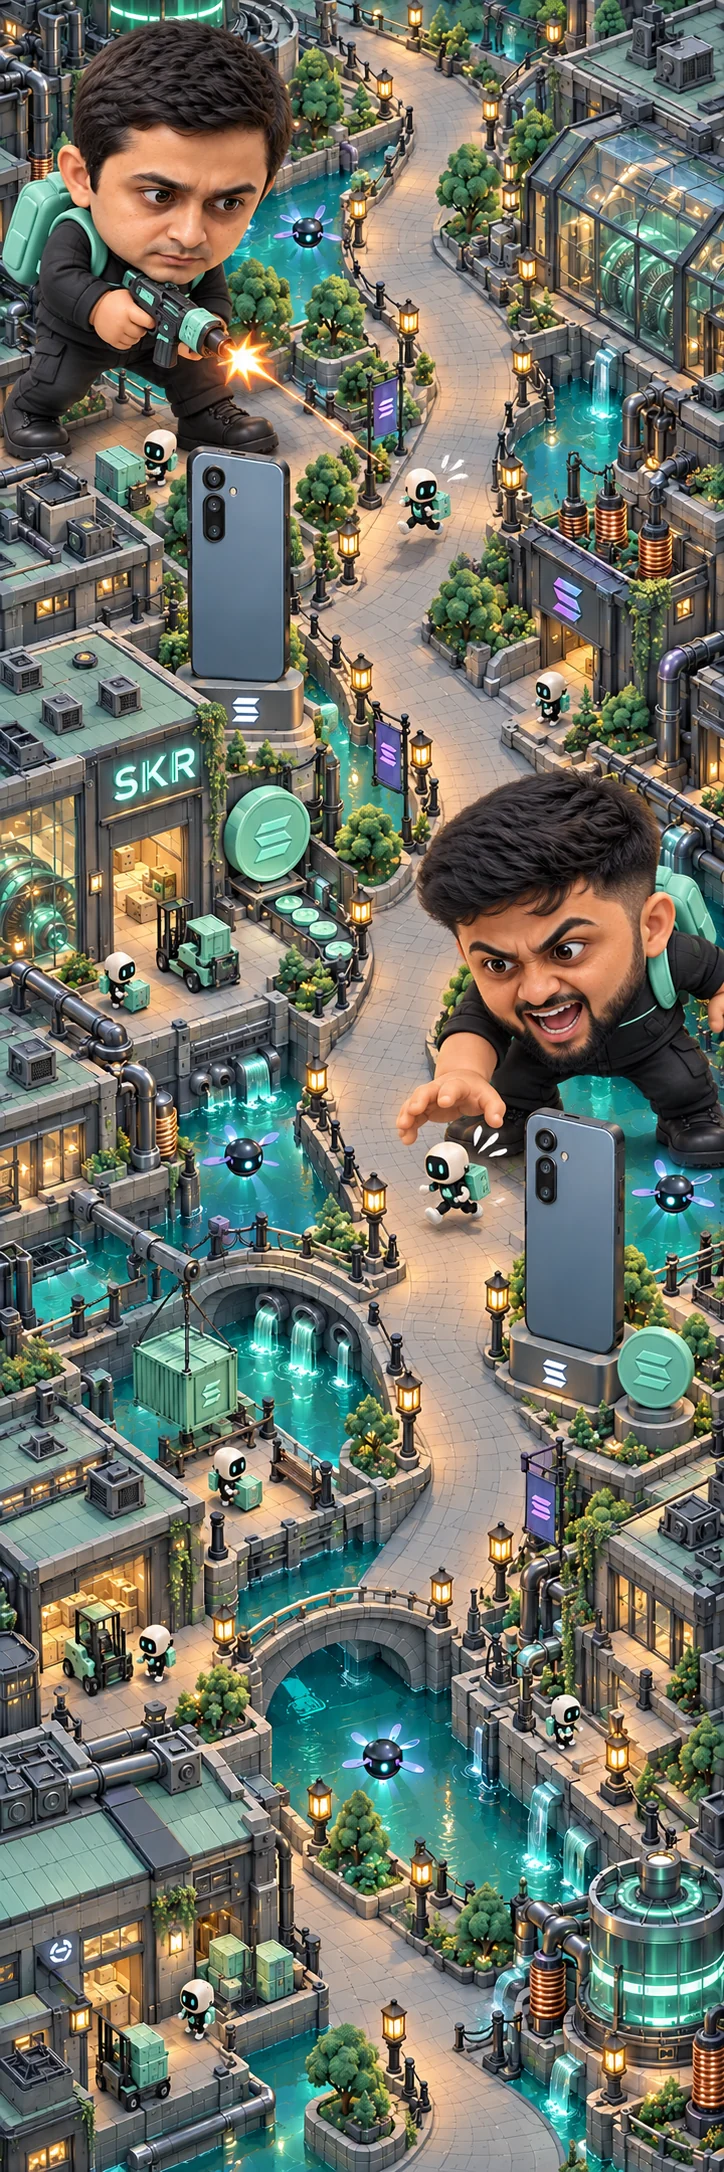
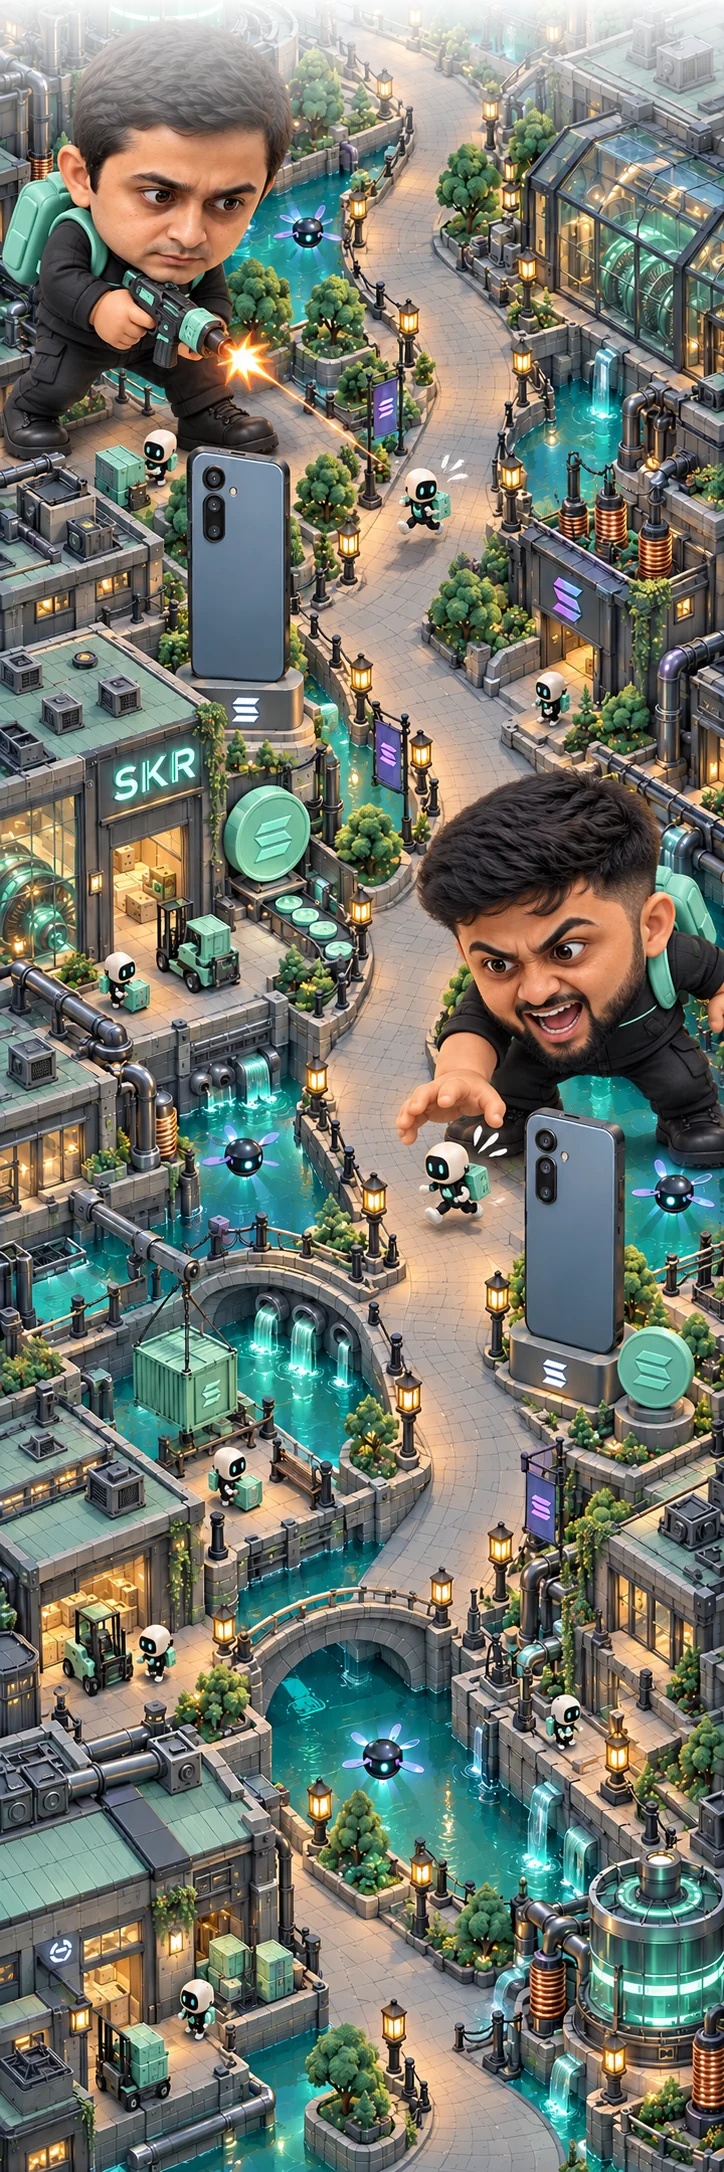
keep skia out of the scrolling map and send a slim hud snapshot
the level map drew each world scene in its own skia canvas with a gradient
mask; several gpu surfaces inside a scroll view stutter on android, so the
scenes are plain images now and the crossfade into the zone above is baked
into the top of each world image at pack time.

the ui thread published the whole game state eight times a second, including
the level definition and every guard's route and planner memory. the snapshot
now leaves those out and the js side reattaches the level it already holds;
frame interval samples live in a fixed ring instead of a growing array, the
relay comparison no longer copies an array per step, and the follow camera
allocates nothing while the courier stands still. version 0.3.37 (code 40).

Changed region(s): [[0.0, 0.0, 1.0, 0.0925]]

diff --git a/src/GameScreen.tsx b/src/GameScreen.tsx
@@ -61,11 +61,13 @@ import type {Replay,ReplayChunk} from '../shared/replay';
 import rulesManifest from '../shared/rules-manifest.json';
 import {alarmSpeedPercent,decoyMessage} from './game/feedback';
 import {initialState,idleInput,step,nearPhone,nearSwitch,exitOpen,stateLevel,type GameState} from './game/simulation';
-import {LEVEL,getLevel,TUNING,MISSIONS,type MissionId} from './game/level';
+import {LEVEL,getLevel,TUNING,MISSIONS,type MissionId,type Point} from './game/level';
 type Stats={fps:number;p95:number;frames:number;slow:number};
 const zeroStats={fps:0,p95:0,frames:0,slow:0};
 const time=(n:number)=>`${Math.floor(n/60).toString().padStart(2,'0')}:${Math.floor(n%60).toString().padStart(2,'0')}`;
 // memoised so hud publishes do not re-render the hidden overlay panels
+// a shared empty route for hud snapshots: the renderer reads routes from the ui-thread state, not from the hud
+const NO_PATH:Point[]=[];
 const RewardsPanelMemo=React.memo(RewardsPanel),WalletPanelMemo=React.memo(WalletPanel),HideoutMemo=React.memo(Hideout),SettingsPanelMemo=React.memo(SettingsPanel);
 export default function GameScreen(){return <GestureHandlerRootView style={{flex:1}}><SafeAreaProvider><LaunchSplash><WalletProvider><AccountProvider><SettingsProvider><EconomyProvider><CampaignGate><WalletGame/></CampaignGate></EconomyProvider></SettingsProvider></AccountProvider></WalletProvider></LaunchSplash></SafeAreaProvider></GestureHandlerRootView>;}
 function WalletGame(){
@@ -95,7 +97,7 @@ export function Game({onSnapshot}:{onSnapshot?:(state:GameState)=>void}){
  const pendingTap=useSharedValue<PendingTap|null>(null),previousTap=useSharedValue<PendingTap|null>(null),tapElapsed=useSharedValue(TAP_INTERVAL_MS);
  const recording=useSharedValue<ReplayChunk[]>([]),[completedReplay,setCompletedReplay]=useState<Replay>();
  const game=useSharedValue(initial),input=useSharedValue(idleInput()),alpha=useSharedValue(0),clock=useSharedValue(0),accumulator=useSharedValue(0),suspended=useSharedValue(homeFirst);
- const samples=useSharedValue<number[]>([]),reportClock=useSharedValue(0),hudClock=useSharedValue(0),frameTotal=useSharedValue(0),slowTotal=useSharedValue(0);
+ const samples=useSharedValue<number[]>(Array.from({length:120},()=>0)),sampleIndex=useSharedValue(0),sampleCount=useSharedValue(0),reportClock=useSharedValue(0),hudClock=useSharedValue(0),frameTotal=useSharedValue(0),slowTotal=useSharedValue(0);
  const [hud,setHud]=useState<GameState>(()=>JSON.parse(JSON.stringify(initial))),[stats,setStats]=useState<Stats>(zeroStats),[paused,setPaused]=useState(homeFirst),[details,setDetails]=useState(false),[mission,setMission]=useState<MissionId>(startMission),[entry,setEntry]=useState<CampaignEntry>(()=>authoredEntry(startMission));
  const entryRef=useRef(entry);entryRef.current=entry;
  useRunTelemetry(hud,paused,trial.active?'trial':'campaign',stats);
@@ -157,7 +159,9 @@ export function Game({onSnapshot}:{onSnapshot?:(state:GameState)=>void}){
  const alarmAudio=useAudioPlayer(require('../assets/audio-combat-v3/alarm.wav'));
  const pickupAudio=useAudioPlayer(require('../assets/audio-combat-v3/pickup.wav')),dashAudio=useAudioPlayer(require('../assets/audio-v3/dash.wav')),successAudio=useAudioPlayer(require('../assets/audio-combat-v3/escape.wav'));
  const decoyAudio=useAudioPlayer(require('../assets/audio-v3/decoy.wav')),caughtAudio=useAudioPlayer(require('../assets/audio-combat-v3/caught.wav')),spotAudio=useAudioPlayer(require('../assets/audio-v3/spot.wav')),switchAudio=useAudioPlayer(require('../assets/audio-v3/switch.wav'));
- const publish=useCallback((snapshot:GameState,epoch?:number)=>{if(epoch!==undefined&&epoch!==sceneEpoch.current)return;latest.current=snapshot;setHud(snapshot);onSnapshot?.(snapshot);},[onSnapshot]);
+ // the ui thread sends a slim snapshot (no level definition, no guard routes or brains); the level is reattached here
+ const levelRef=useRef(level);levelRef.current=level;
+ const publish=useCallback((snapshot:GameState,epoch?:number)=>{if(epoch!==undefined&&epoch!==sceneEpoch.current)return;snapshot.definition=levelRef.current;latest.current=snapshot;setHud(snapshot);onSnapshot?.(snapshot);},[onSnapshot]);
  const publishStats=useCallback((value:Stats)=>{latestStats.current=value;setStats(value);},[]);
  useEffect(()=>{for(const player of [pickupAudio,dashAudio,successAudio,decoyAudio,caughtAudio,spotAudio,switchAudio]){player.volume=settings.sound?settings.volume:0;if(!settings.sound)player.pause();}},[settings.sound,settings.volume,pickupAudio,dashAudio,successAudio,decoyAudio,caughtAudio,spotAudio,switchAudio]);
  useEffect(()=>{alarmAudio.loop=true;alarmAudio.volume=settings.sound?settings.volume*.12:0;if(settings.sound&&(hud.securityAlarm||laserAlarm)&&hud.status==='playing'&&!paused)alarmAudio.play();else alarmAudio.pause();return()=>alarmAudio.pause();},[alarmAudio,settings.sound,settings.volume,hud.securityAlarm,laserAlarm,hud.status,paused]);
@@ -191,34 +195,35 @@ export function Game({onSnapshot}:{onSnapshot?:(state:GameState)=>void}){
    if(guideWaiting.value){accumulator.value=0;return;}
    const dt=Math.min(raw/1000,.1);clock.value+=dt;
    frameTotal.value++;if(raw>25)slowTotal.value++;
-   samples.modify(v=>{v.push(raw);if(v.length>120)v.shift();return v;});reportClock.value+=raw;
+   // fixed ring of the last 120 intervals: no array growth or shift on the ui thread
+   samples.modify(v=>{v[sampleIndex.value]=raw;return v;});sampleIndex.value=(sampleIndex.value+1)%120;sampleCount.value=Math.min(120,sampleCount.value+1);reportClock.value+=raw;
    if(reportClock.value>=1000){
-     const sorted=[...samples.value].sort((a,b)=>a-b);const mean=samples.value.reduce((a,b)=>a+b,0)/Math.max(1,samples.value.length);
+     const filled=samples.value.slice(0,sampleCount.value),sorted=[...filled].sort((a,b)=>a-b);const mean=filled.reduce((a,b)=>a+b,0)/Math.max(1,filled.length);
      runOnJS(callStats)({fps:1000/mean,p95:sorted[Math.max(0,Math.ceil(sorted.length*.95)-1)]??0,frames:frameTotal.value,slow:slowTotal.value});reportClock.value=0;
    }
    accumulator.value=Math.min(accumulator.value+dt,TUNING.step*3);
    hudClock.value+=dt;
    // frames without a simulation step change nothing, so they only advance interpolation
    if(accumulator.value+1e-9<TUNING.step){alpha.value=accumulator.value/TUNING.step;return;}
-   const previousDamage=game.value.combat?.damageTaken??0,previousDecoys=game.value.decoysLeft,previousAlert=game.value.alert,previousPower=game.value.power,previousRelays=[...game.value.relayTimers],previousCarry=game.value.carrying,previousDashes=game.value.dashes,previousTool=game.value.toolSeen,previousStatus=game.value.status;
+   const previousDamage=game.value.combat?.damageTaken??0,previousDecoys=game.value.decoysLeft,previousAlert=game.value.alert,previousPower=game.value.power,previousRelay0=game.value.relayTimers[0]??0,previousRelay1=game.value.relayTimers[1]??0,previousCarry=game.value.carrying,previousDashes=game.value.dashes,previousTool=game.value.toolSeen,previousStatus=game.value.status;
    game.modify(s=>{recording.modify(chunks=>{while(accumulator.value+1e-9>=TUNING.step){recordStep(s,input.value,chunks);accumulator.value-=TUNING.step;}return chunks;});return s;},true);
    alpha.value=accumulator.value/TUNING.step;
    if(game.value.decoysLeft<previousDecoys)runOnJS(callEvent)('decoy');
    if(!combatMode&&previousAlert<=0&&game.value.alert>0)runOnJS(callEvent)('spot');
-   if(game.value.power!==previousPower||game.value.relayTimers.some((v,i)=>v>(previousRelays[i]??0)))runOnJS(callEvent)('switch');
+   if(game.value.power!==previousPower||(game.value.relayTimers[0]??0)>previousRelay0||(game.value.relayTimers[1]??0)>previousRelay1)runOnJS(callEvent)('switch');
    if(game.value.carrying&&!previousCarry)runOnJS(callEvent)('pickup');
    if(game.value.dashes>previousDashes)runOnJS(callEvent)('dash');
    if(game.value.status==='won'&&previousStatus!=='won')runOnJS(callEvent)('success');
    if(game.value.status==='caught'&&previousStatus!=='caught')runOnJS(callEvent)('caught');
-   if(hudClock.value>=.12||previousDamage!==(game.value.combat?.damageTaken??0)||previousTool!==game.value.toolSeen||previousCarry!==game.value.carrying||previousStatus!==game.value.status||previousDashes!==game.value.dashes){runOnJS(callPublish)({...game.value},simulationEpoch.value);hudClock.value=0;}
- },[suspended,sceneReady,pendingTap,tapElapsed,game,input,guideStage,guideWaiting,clock,frameTotal,slowTotal,samples,reportClock,accumulator,recording,alpha,hudClock,simulationEpoch,combatMode,callPublish,callStats,callEvent,callBeginGuide]));
+   if(hudClock.value>=.12||previousDamage!==(game.value.combat?.damageTaken??0)||previousTool!==game.value.toolSeen||previousCarry!==game.value.carrying||previousStatus!==game.value.status||previousDashes!==game.value.dashes){runOnJS(callPublish)({...game.value,definition:undefined,guards:game.value.guards.map(g=>({...g,path:NO_PATH,brain:undefined}))},simulationEpoch.value);hudClock.value=0;}
+ },[suspended,sceneReady,pendingTap,tapElapsed,game,input,guideStage,guideWaiting,clock,frameTotal,slowTotal,samples,sampleIndex,sampleCount,reportClock,accumulator,recording,alpha,hudClock,simulationEpoch,combatMode,callPublish,callStats,callEvent,callBeginGuide]));
  useEffect(()=>{frameDriver.setActive(renderGameSurface&&!paused);return()=>frameDriver.setActive(false);},[renderGameSurface,paused,frameDriver]);
  const pause=useCallback((value:boolean)=>{
   suspended.value=value;pendingTap.value=null;previousTap.value=null;
   input.value=idleInput();game.modify(s=>{'worklet';s.vx=0;s.vy=0;s.px=s.x;s.py=s.y;s.dashSeen=0;s.toolSeen=0;return s;});
   setPaused(value);
  },[suspended,input,game,pendingTap,previousTap]);
- const restart=useCallback((next:CampaignEntry=entryRef.current)=>{if(trial.active){trial.finish();return;}sceneReady.value=false;suspended.value=true;pendingTap.value=null;previousTap.value=null;tapElapsed.value=TAP_INTERVAL_MS;simulationEpoch.value=++sceneEpoch.current;setSceneVersion(sceneEpoch.current);setSceneLoading(true);setSceneError('');recording.value=[];setCompletedReplay(undefined);rewardEpoch.current++;setEarnedNotice('');setCreditReward({amount:null});setRewardClaimed(false);setAutoClaim(false);setRewardRetry(0);connectClaimPending.current=false;recorded.current=false;setMission(next.mission);setEntry(next);const fresh=(next.key==='practice'?guide.start('practice'):null)??initialState(next.mission,combatMode?next.definition:undefined);game.value=fresh;input.value=idleInput();accumulator.value=0;alpha.value=0;clock.value=0;samples.value=[];frameTotal.value=0;slowTotal.value=0;reportClock.value=0;hudClock.value=0;setHud(fresh);latest.current=fresh;suspended.value=false;setPaused(false);setStats(zeroStats);},[game,input,accumulator,alpha,clock,samples,frameTotal,slowTotal,reportClock,hudClock,suspended,recording,trial,guide.start,combatMode,sceneReady,pendingTap,previousTap,tapElapsed,simulationEpoch]);
+ const restart=useCallback((next:CampaignEntry=entryRef.current)=>{if(trial.active){trial.finish();return;}sceneReady.value=false;suspended.value=true;pendingTap.value=null;previousTap.value=null;tapElapsed.value=TAP_INTERVAL_MS;simulationEpoch.value=++sceneEpoch.current;setSceneVersion(sceneEpoch.current);setSceneLoading(true);setSceneError('');recording.value=[];setCompletedReplay(undefined);rewardEpoch.current++;setEarnedNotice('');setCreditReward({amount:null});setRewardClaimed(false);setAutoClaim(false);setRewardRetry(0);connectClaimPending.current=false;recorded.current=false;setMission(next.mission);setEntry(next);const fresh=(next.key==='practice'?guide.start('practice'):null)??initialState(next.mission,combatMode?next.definition:undefined);game.value=fresh;input.value=idleInput();accumulator.value=0;alpha.value=0;clock.value=0;sampleIndex.value=0;sampleCount.value=0;frameTotal.value=0;slowTotal.value=0;reportClock.value=0;hudClock.value=0;setHud(fresh);latest.current=fresh;suspended.value=false;setPaused(false);setStats(zeroStats);},[game,input,accumulator,alpha,clock,samples,frameTotal,slowTotal,reportClock,hudClock,suspended,recording,trial,guide.start,combatMode,sceneReady,pendingTap,previousTap,tapElapsed,simulationEpoch]);
  // Explicit exits must open the map even when Hideout remembers a briefing or store tab.
  const backToMissions=()=>{pause(true);economy.setTab('map');setMissionMapRequest(n=>n+1);setHideoutOpen(true);};
  const introduceMission=(next:CampaignEntry)=>{if(!next.playable)return;if(testMission){restart(next);return;}pause(true);setHideoutOpen(false);setIntroMission(next);};
@@ -233,7 +238,7 @@ export function Game({onSnapshot}:{onSnapshot?:(state:GameState)=>void}){
    window.addEventListener('keydown',down);window.addEventListener('keyup',up);window.addEventListener('blur',blur);
    const visibility=()=>{if(document.hidden)blur();};document.addEventListener('visibilitychange',visibility);
    // Read-only diagnostics for reproducible local playtests. No teleport, score or win hooks.
-   (window as unknown as {__SEEKER_MVP__:unknown}).__SEEKER_MVP__={renderer:'2d-skia',rulesHash:rulesManifest.rulesHash,snapshot:()=>({...game.value,guards:game.value.guards.map(g=>({...g}))}),metrics:()=>({...latestStats.current}),get camera(){return {...camera.value};},replay:()=>({version:(combatMode?2:1) as 1|2,chunks:recording.value.map(c=>({...c}))}),get level(){return stateLevel(game.value);}};
+   (window as unknown as {__SEEKER_MVP__:unknown}).__SEEKER_MVP__={renderer:'2d-skia',rulesHash:rulesManifest.rulesHash,snapshot:()=>({...game.value,guards:game.value.guards.map(g=>({...g}))}),metrics:()=>({...latestStats.current}),get hud(){return latest.current;},get camera(){return {...camera.value};},replay:()=>({version:(combatMode?2:1) as 1|2,chunks:recording.value.map(c=>({...c}))}),get level(){return stateLevel(game.value);}};
    return()=>{window.removeEventListener('keydown',down);window.removeEventListener('keyup',up);window.removeEventListener('blur',blur);document.removeEventListener('visibilitychange',visibility);};
  },[input,pause,restart,suspended,recording,introMission,walletOpen,hideoutOpen,mapOpen,settingsOpen,rewardsOpen]);
  const teachingTarget=guideTarget(guide.stage,hud);

diff --git a/src/components/CampaignMap.tsx b/src/components/CampaignMap.tsx
@@ -1,4 +1,6 @@
 // Illustrated journey; virtualized rows share continuous district artwork and a legible route.
+// the art is plain images: a skia canvas per row would put several gpu surfaces inside the scroll view and stutter on
+// android. the crossfade into the zone above is baked into the top of each image at pack time (scripts/pack-world-art.mjs).
 import {useHaptics} from '../feedback/useHaptics';
 import React,{useCallback,useMemo} from 'react';
 import {FlatList,Image,Pressable,StyleSheet,Text,View} from 'react-native';
@@ -7,7 +9,6 @@ import type {Progress} from '../progress/model';
 import {BOSS_NAMES} from '../../shared/campaign-levels';
 import {bossPortrait} from './costumeAssets';
 import {campaignMapLayout,type MapScene} from './campaignMapLayout';
-import {Canvas,Image as SkiaImage,Mask,Rect,LinearGradient,useImage,vec} from '@shopify/react-native-skia';
 
 const NODE=40,BOSS_NODE=52;
 const art={warehouse:require('../../assets/campaign-world-v2/warehouse.webp'),rooftops:require('../../assets/campaign-world-v2/rooftops.webp'),powerworks:require('../../assets/campaign-world-v2/powerworks.webp')};
@@ -15,8 +16,6 @@ export default function CampaignMap({entries,progress,current,onSelect}:{entries
  const haptic=useHaptics();
  const [{width,height},setSize]=React.useState({width:0,height:0});
  const list=React.useRef<FlatList<MapScene>>(null),positioned=React.useRef('');
- const warehouse=useImage(art.warehouse),rooftops=useImage(art.rooftops),powerworks=useImage(art.powerworks);
- const images=useMemo(()=>({warehouse,rooftops,powerworks}),[warehouse,rooftops,powerworks]);
  const {scenes}=useMemo(()=>campaignMapLayout(entries,width),[entries,width]);
  const currentScene=Math.max(0,scenes.findIndex(s=>s.nodes.some(n=>n.entry.key===current.key)));
  const position=useCallback(()=>{
@@ -27,13 +26,10 @@ export default function CampaignMap({entries,progress,current,onSelect}:{entries
  },[width,height,entries.length,scenes,currentScene,current.key]);
  const getItemLayout=useCallback((_:unknown,index:number)=>({length:scenes[index]?.height??0,offset:scenes[index]?.offset??0,index}),[scenes]);
  const render=useCallback(({item}:{item:MapScene})=>{
-  const image=images[item.zone],previous=item.previousZone?images[item.previousZone]:null;
-  const picture=image?<SkiaImage image={image} x={0} y={0} width={width} height={item.imageHeight} fit="contain"/>:null;
-  return <View style={{height:item.height}}>
-   <Canvas pointerEvents="none" accessible={false} style={StyleSheet.absoluteFill}>
-    {previous&&<SkiaImage image={previous} x={0} y={-(item.imageHeight-item.fade)} width={width} height={item.imageHeight} fit="contain"/>}
-    {previous?<Mask mask={<Rect x={0} y={0} width={width} height={item.imageHeight}><LinearGradient start={vec(0,0)} end={vec(0,item.fade)} colors={['transparent','white']}/></Rect>}>{picture}</Mask>:picture}
-   </Canvas>
+  // the row above shows its bottom strip under this image's faded top, which keeps the road continuous
+  return <View style={{height:item.height,overflow:'hidden'}}>
+   {item.previousZone&&<Image accessible={false} source={art[item.previousZone]} resizeMode="contain" style={{position:'absolute',left:0,top:-(item.imageHeight-item.fade),width,height:item.imageHeight}}/>}
+   <Image accessible={false} source={art[item.zone]} resizeMode="contain" style={{position:'absolute',left:0,top:0,width,height:item.imageHeight}}/>
    {item.nodes.map(({entry,index,x,y})=>{
     const open=entryUnlocked(progress,entries,index)&&entry.playable,best=progress.missions[entry.key],isCurrent=entry.key===current.key,boss=entry.boss,size=boss?BOSS_NODE:NODE;
     return <Pressable key={entry.key} testID={`mission-node-${entry.number}`} accessibilityRole="button" accessibilityLabel={`Level ${entry.number}: ${boss?`${BOSS_NAMES[boss]} boss fight`:entry.title}${open?'':'. Locked'}`} accessibilityState={{selected:isCurrent}} onPress={()=>{haptic('select');onSelect(entry);}} style={({pressed})=>[s.target,{left:x-30,top:y-size/2-4,opacity:pressed?.7:1}]}>
@@ -45,8 +41,8 @@ export default function CampaignMap({entries,progress,current,onSelect}:{entries
     </Pressable>;
    })}
   </View>;
- },[images,width,progress,entries,current.key,haptic,onSelect]);
- const extra=useMemo(()=>({progress,width,current:current.key,images}),[progress,width,current.key,images]);
+ },[width,progress,entries,current.key,haptic,onSelect]);
+ const extra=useMemo(()=>({progress,width,current:current.key}),[progress,width,current.key]);
  return <View testID="mission-districts" style={s.list} onLayout={e=>{const {width:w,height:h}=e.nativeEvent.layout;setSize(old=>old.width===w&&old.height===h?old:{width:w,height:h});}}>
   {width>0&&<FlatList key={`${width}:${entries.length}`} ref={list} data={scenes} extraData={extra} renderItem={render} keyExtractor={r=>r.key} getItemLayout={getItemLayout} initialScrollIndex={currentScene} initialNumToRender={2} windowSize={5} maxToRenderPerBatch={3} showsVerticalScrollIndicator={false} onContentSizeChange={position} onScrollToIndexFailed={position}/>}
  </View>;

diff --git a/src/camera/useFollowCamera.ts b/src/camera/useFollowCamera.ts
@@ -12,9 +12,13 @@ export function useFollowCamera(game:SharedValue<GameState>,alpha:SharedValue<nu
   'worklet';
   const s=game.value;
   if(fullMap.value){if(camera.value!==OVERVIEW)camera.value=OVERVIEW;return;}
-  const target=frameCourier(s.px+(s.x-s.px)*alpha.value,s.py+(s.y-s.py)*alpha.value,CAMERA_CONFIG.zoom,viewportHeight);
-  const next=s.ticks<2?target:followCamera(camera.value,target,(frame.timeSincePreviousFrame??16)/1000);
-  if(next!==camera.value)camera.value=next;
+  // a still courier costs nothing: compare the clamped target as scalars before building a camera object
+  const zoom=Math.max(CAMERA_CONFIG.zoom,viewportHeight/20),cx=s.px+(s.x-s.px)*alpha.value,cy=s.py+(s.y-s.py)*alpha.value;
+  const tx=Math.max(0,Math.min(12-12/zoom,cx-6/zoom)),ty=Math.max(0,Math.min(20-viewportHeight/zoom,cy-.5-viewportHeight/2/zoom)),c=camera.value;
+  if(s.ticks>=2&&c.zoom===zoom&&Math.abs(tx-c.x)<1e-6&&Math.abs(ty-c.y)<1e-6)return;
+  const target=frameCourier(cx,cy,CAMERA_CONFIG.zoom,viewportHeight);
+  const next=s.ticks<2?target:followCamera(c,target,(frame.timeSincePreviousFrame??16)/1000);
+  if(next!==c)camera.value=next;
  },[game,alpha,fullMap,camera,viewportHeight]),false);
  useEffect(()=>{driver.setActive(active);return()=>driver.setActive(false);},[driver,active]);
  return camera;
